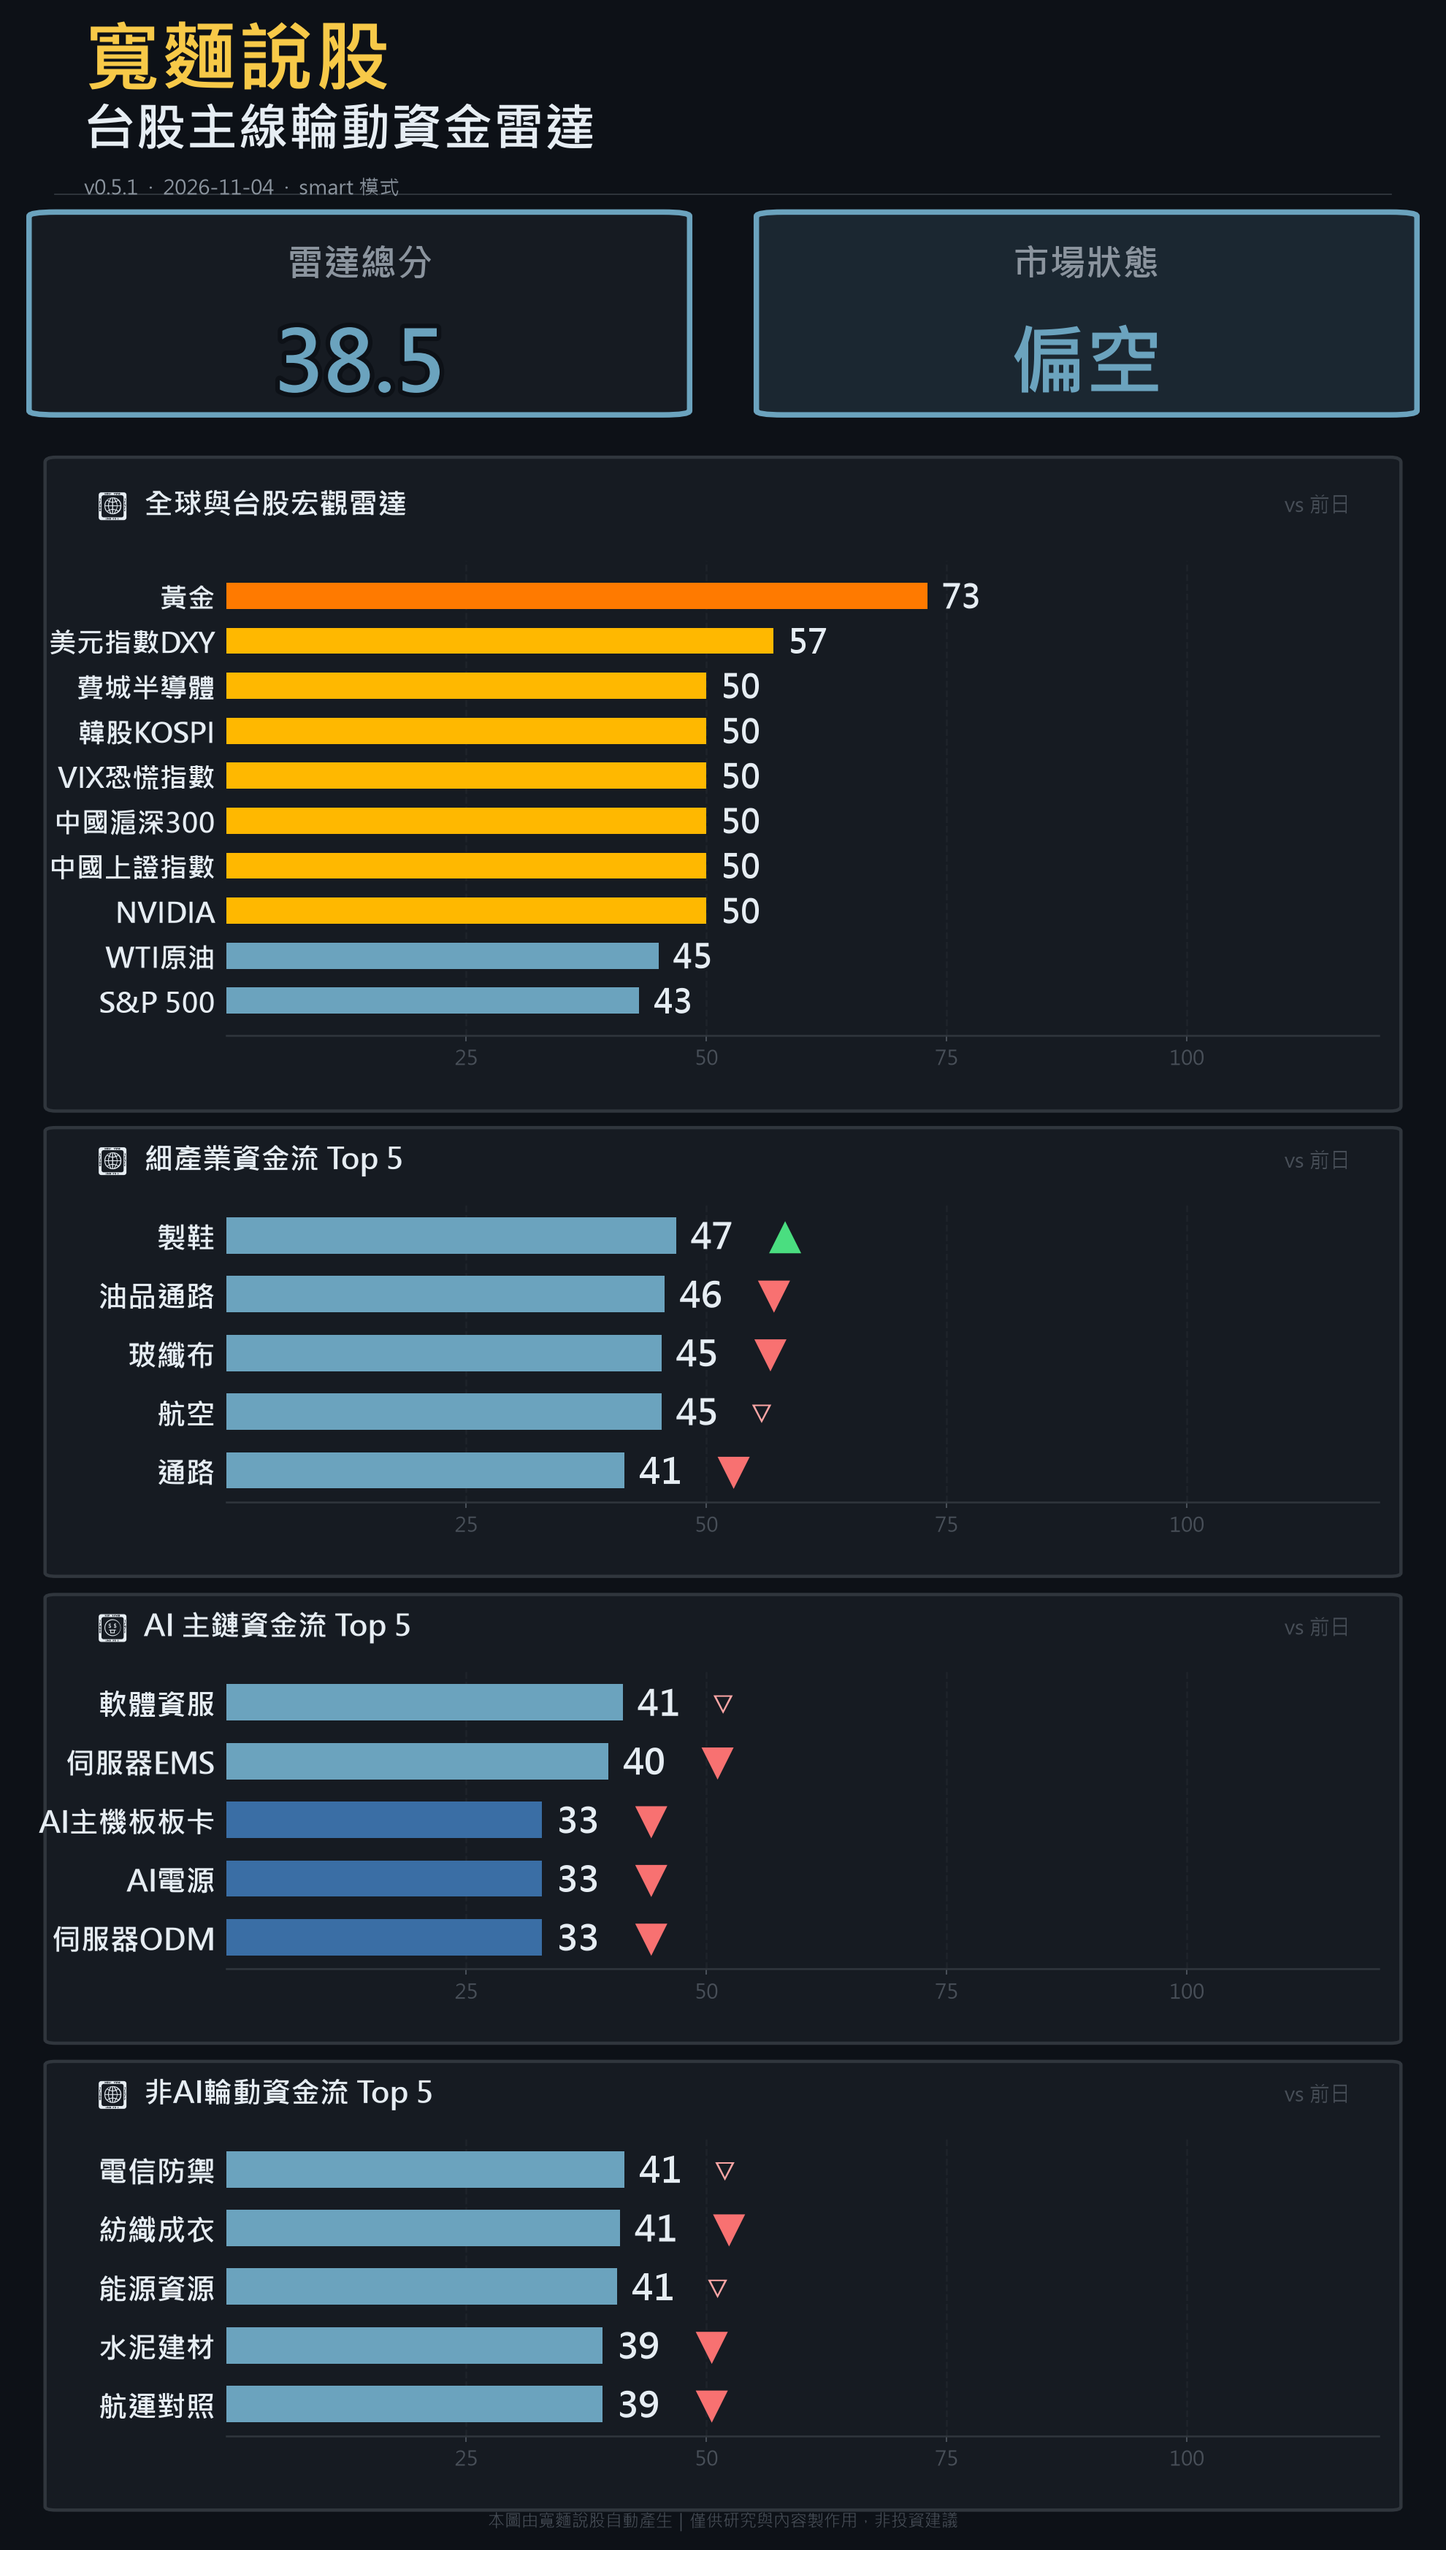
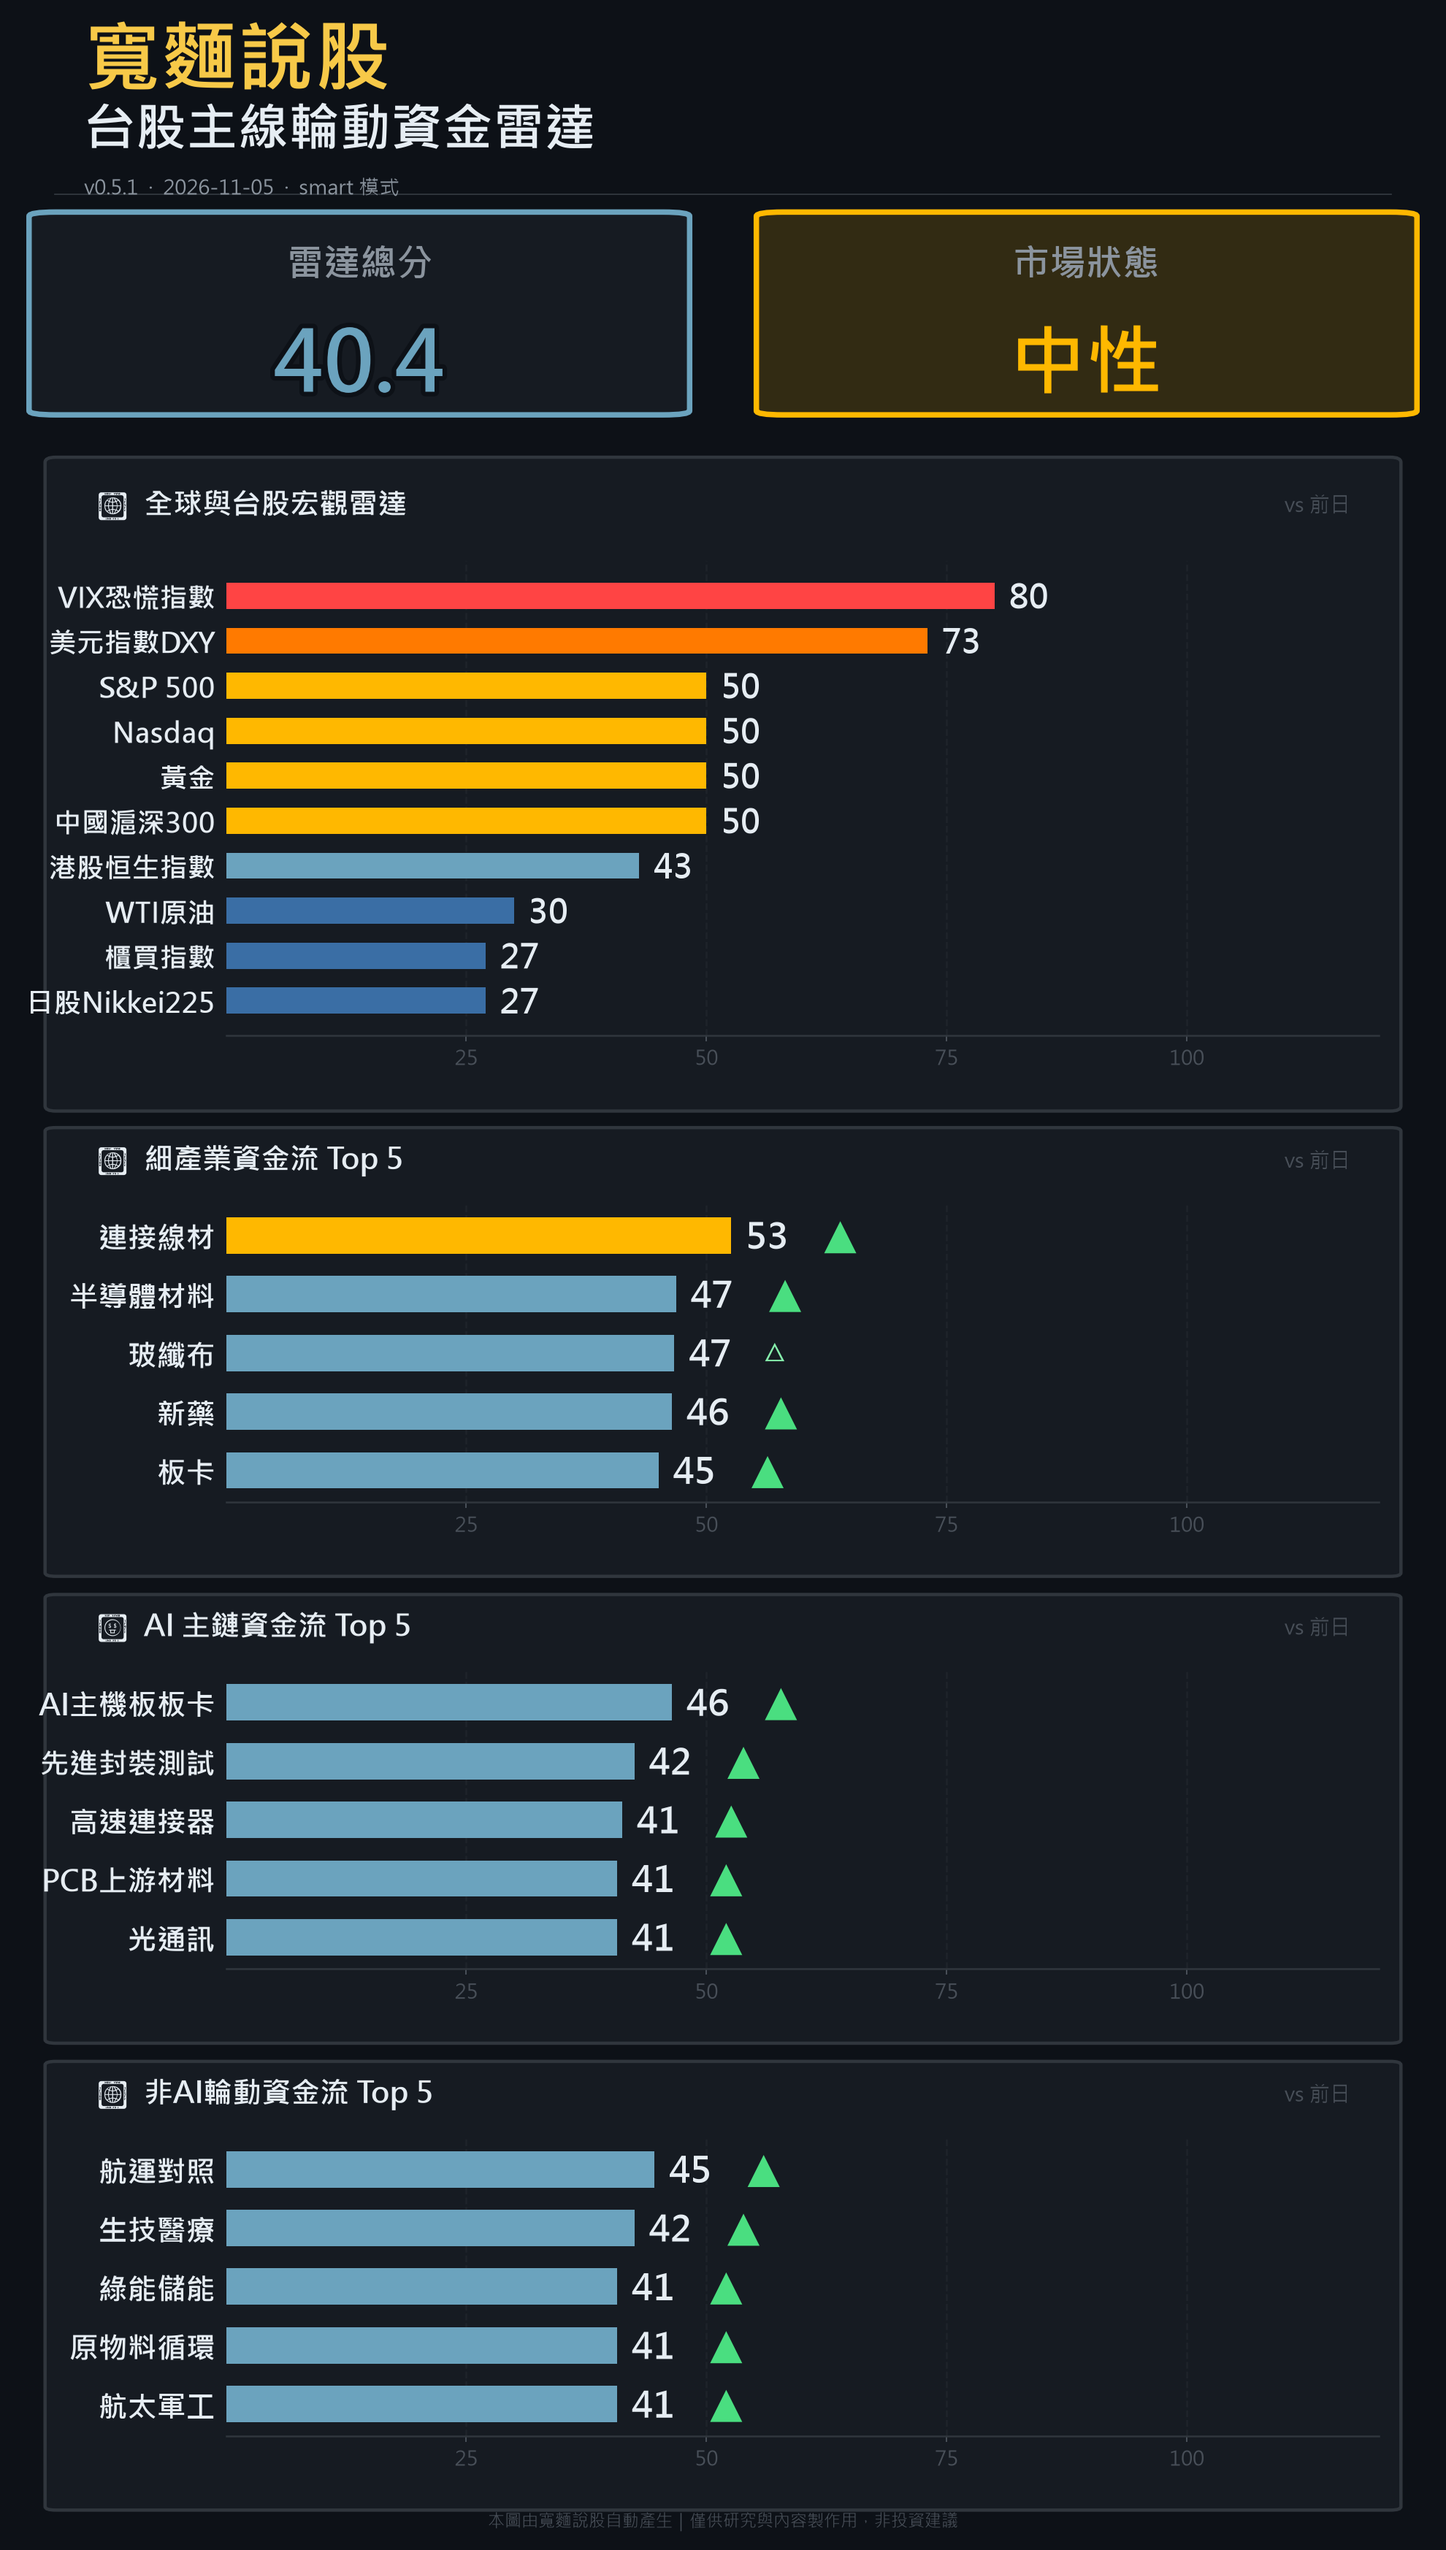
auto update radar chart 週四 2026/11/05  7:27:56.28

diff --git a/index.html b/index.html
@@ -122,7 +122,7 @@
     <section class="hero">
       <div class="brand">寬麵說股｜股海說書人</div>
       <h1>台股主線輪動資金雷達</h1>
-      <div class="updated">最後更新：2026-11-04 07:28:06</div>
+      <div class="updated">最後更新：2026-11-05 07:27:56</div>
       <div class="notice">
         每日追蹤 AI 主鏈、非AI輪動、宏觀風險與族群資金流。<br>
         本圖卡僅供研究與內容製作用，非投資建議。
@@ -130,11 +130,11 @@
     </section>
 
     <section class="dashboard-wrap">
-      <img class="dashboard" src="dashboard.png?v=20261104" alt="寬麵說股 台股主線輪動資金雷達">
+      <img class="dashboard" src="dashboard.png?v=20261105" alt="寬麵說股 台股主線輪動資金雷達">
     </section>
 
     <div class="actions">
-      <a class="btn" href="dashboard.png?v=20261104" target="_blank">開啟原圖</a>
+      <a class="btn" href="dashboard.png?v=20261105" target="_blank">開啟原圖</a>
     </div>
 
     <div class="footer">
